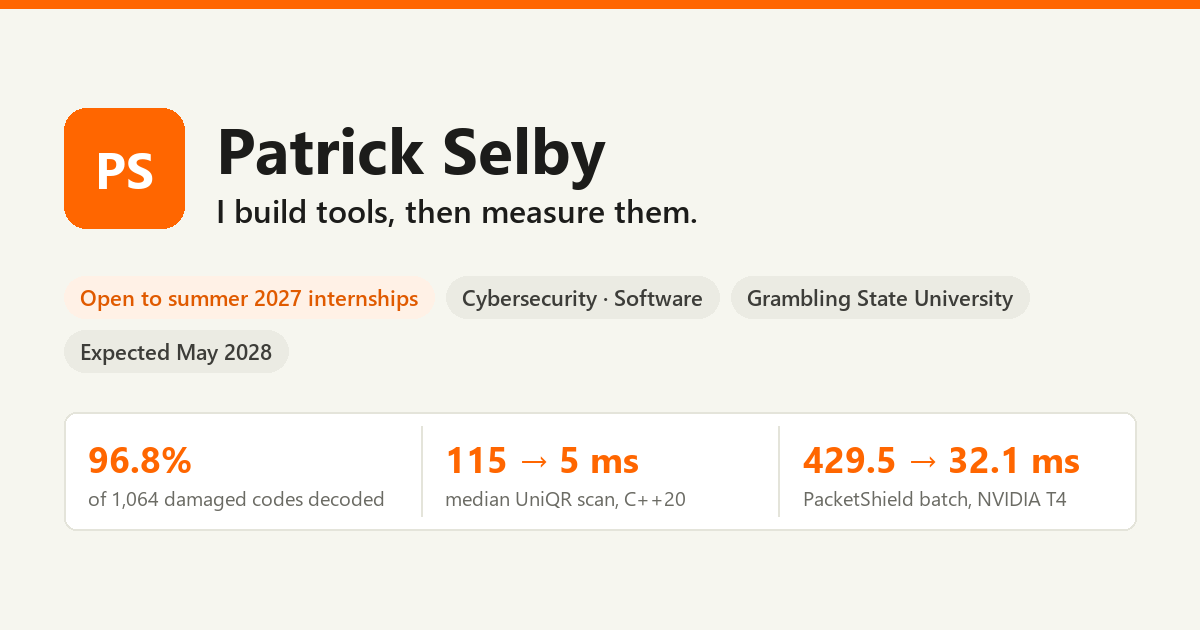
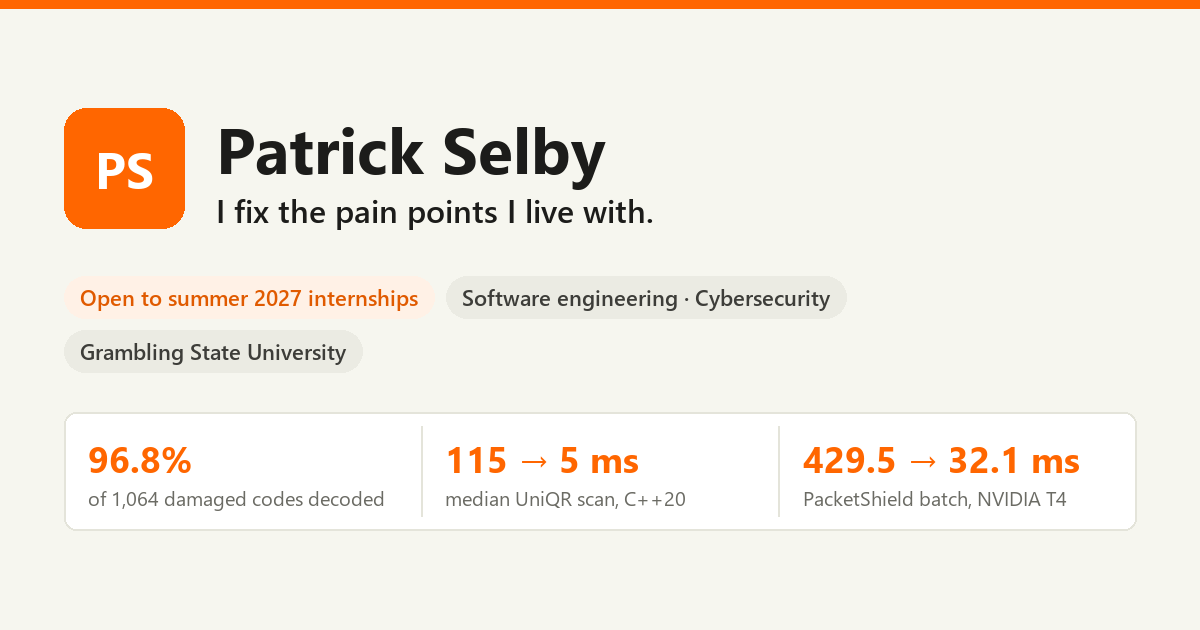
Drop class year and grad date; add a social dock that follows the scroll
- About now says cybersecurity student who loves software engineering and
  cybersecurity; the Graduation card becomes What I love. Link preview
  image drops Expected May 2028 and uses the new tagline.
- Floating links: a left rail on wide screens, a bottom pill on phones,
  shown after the hero and hidden at the closing buttons.

Changed region(s): [[0.185, 0.3016, 0.5858, 0.3619], [0.37, 0.4524, 0.8325, 0.5127], [0.0617, 0.5429, 0.3083, 0.573]]

diff --git a/src/components/socials.tsx b/src/components/socials.tsx
@@ -1,15 +1,15 @@
 "use client";
 
 import { useEffect, useState } from "react";
+import { AnimatePresence, motion } from "motion/react";
 import { FaGithub, FaInstagram, FaLinkedinIn, FaXTwitter } from "react-icons/fa6";
 import { MdOutlineEmail } from "react-icons/md";
 
 import { profile } from "@/lib/content";
 import { cn } from "@/lib/utils";
 
-/** Real brand logos for each place to find Patrick. Instagram appears once its handle is set. */
-export function SocialLinks({ size = "md", className }: { size?: "sm" | "md"; className?: string }) {
-  const links = [
+function socialLinks() {
+  return [
     { href: `mailto:${profile.email}`, label: "Email", Icon: MdOutlineEmail, tint: "hover:bg-[#0071e3]" },
     { href: profile.github, label: "GitHub", Icon: FaGithub, tint: "hover:bg-[#181717]" },
     { href: profile.linkedin, label: "LinkedIn", Icon: FaLinkedinIn, tint: "hover:bg-[#0a66c2]" },
@@ -18,6 +18,13 @@ export function SocialLinks({ size = "md", className }: { size?: "sm" | "md"; cl
       ? [{ href: profile.instagram, label: "Instagram", Icon: FaInstagram, tint: "hover:bg-[#e1306c]" }]
       : []),
   ];
+}
+
+const external = (href: string) => (href.startsWith("mailto:") ? {} : { target: "_blank", rel: "noopener noreferrer" });
+
+/** Real brand logos for each place to find Patrick. Instagram appears once its handle is set. */
+export function SocialLinks({ size = "md", className }: { size?: "sm" | "md"; className?: string }) {
+  const links = socialLinks();
 
   return (
     <div className={cn("flex flex-wrap items-center justify-center gap-3", className)}>
@@ -25,7 +32,7 @@ export function SocialLinks({ size = "md", className }: { size?: "sm" | "md"; cl
         <a
           key={label}
           href={href}
-          {...(href.startsWith("mailto:") ? {} : { target: "_blank", rel: "noopener noreferrer" })}
+          {...external(href)}
           aria-label={label}
           className={cn(
             "group inline-flex items-center gap-2 rounded-full border border-border bg-white font-medium text-foreground transition-all duration-200 hover:-translate-y-0.5 hover:border-transparent hover:text-white hover:shadow-lg",
@@ -65,5 +72,76 @@ export function Typewriter({ text, className, speed = 55 }: { text: string; clas
         className={cn("ml-1 inline-block h-[0.85em] w-[3px] translate-y-[0.08em] bg-primary align-baseline", shown >= text.length ? "animate-pulse" : "")}
       />
     </span>
+  );
+}
+
+/**
+ * Links that follow you down the page: a vertical rail on the left on wide
+ * screens, a pill at the bottom on phones. It appears once you scroll past
+ * the hero and steps aside at the closing section, where the big buttons are.
+ */
+export function FloatingSocials() {
+  const [show, setShow] = useState(false);
+
+  useEffect(() => {
+    let pastHero = false;
+    let atContact = false;
+    const update = () => setShow(pastHero && !atContact);
+
+    const onScroll = () => {
+      pastHero = window.scrollY > window.innerHeight * 0.6;
+      update();
+    };
+    onScroll();
+    window.addEventListener("scroll", onScroll, { passive: true });
+
+    const contact = document.getElementById("contact");
+    const io = new IntersectionObserver(([entry]) => {
+      atContact = entry.isIntersecting;
+      update();
+    });
+    if (contact) io.observe(contact);
+
+    return () => {
+      window.removeEventListener("scroll", onScroll);
+      io.disconnect();
+    };
+  }, []);
+
+  const links = socialLinks();
+  return (
+    <AnimatePresence>
+      {show && (
+        <motion.nav
+          aria-label="Find me online"
+          initial={{ opacity: 0, y: 20, scale: 0.95 }}
+          animate={{ opacity: 1, y: 0, scale: 1 }}
+          exit={{ opacity: 0, y: 20, scale: 0.95 }}
+          transition={{ type: "spring", stiffness: 260, damping: 24 }}
+          className={cn(
+            "fixed z-40 flex gap-1.5 rounded-full border border-black/5 bg-white/80 p-1.5 shadow-[0_12px_40px_-12px_rgba(0,0,0,0.3)] backdrop-blur-xl",
+            // Phones: a pill centered at the bottom. Wide screens: a rail on the left.
+            "bottom-4 left-1/2 -translate-x-1/2 flex-row",
+            "lg:top-1/2 lg:bottom-auto lg:left-5 lg:-translate-x-0 lg:-translate-y-1/2 lg:flex-col"
+          )}
+        >
+          {links.map(({ href, label, Icon, tint }) => (
+            <a
+              key={label}
+              href={href}
+              {...external(href)}
+              aria-label={label}
+              title={label}
+              className={cn(
+                "group grid size-10 place-items-center rounded-full text-foreground transition-all duration-200 hover:scale-110 hover:text-white",
+                tint
+              )}
+            >
+              <Icon className="size-[18px] transition-transform duration-300 group-hover:rotate-[-8deg]" />
+            </a>
+          ))}
+        </motion.nav>
+      )}
+    </AnimatePresence>
   );
 }

diff --git a/src/components/portfolio.tsx b/src/components/portfolio.tsx
@@ -21,7 +21,7 @@ import {
 } from "@/lib/content";
 import { cn } from "@/lib/utils";
 import { ExperienceChat } from "@/components/experience-chat";
-import { SocialLinks, Typewriter } from "@/components/socials";
+import { FloatingSocials, SocialLinks, Typewriter } from "@/components/socials";
 import { DriftCard, HorizontalScroll, Marquee, SmoothScroll, TiltCard, ZoomIn } from "@/components/scroll-fx";
 
 const LENS_KEYS: LensKey[] = ["general", "cyber", "swe"];
@@ -67,6 +67,7 @@ export function Portfolio() {
     <MotionConfig reducedMotion="user">
       <SmoothScroll>
       <Nav resume={lens.resume} />
+      <FloatingSocials />
 
       <main id="top" className="overflow-x-clip">
         {/* ---------------------------------------------------- Hero */}
@@ -276,8 +277,8 @@ export function Portfolio() {
               </p>
               <p className="mt-4 text-lg leading-relaxed text-muted-foreground">
                 Lately that means developer tools and small fixes for my own life as a student. I&apos;m a
-                cybersecurity sophomore at {profile.school}, minoring in Computer Information Systems, and I was
-                born and raised in Ghana.
+                cybersecurity student at {profile.school}, I love software engineering and cybersecurity, and I
+                was born and raised in Ghana.
               </p>
               <dl className="mt-8 grid gap-4 sm:grid-cols-2">
                 <div className="rounded-2xl bg-muted p-4">
@@ -285,8 +286,8 @@ export function Portfolio() {
                   <dd className="mt-1 font-medium">{profile.degree}</dd>
                 </div>
                 <div className="rounded-2xl bg-muted p-4">
-                  <dt className="text-sm text-muted-foreground">Graduation</dt>
-                  <dd className="mt-1 font-medium">{profile.grad}</dd>
+                  <dt className="text-sm text-muted-foreground">What I love</dt>
+                  <dd className="mt-1 font-medium">Software engineering and cybersecurity</dd>
                 </div>
               </dl>
             </Reveal>

diff --git a/src/components/experience-chat.tsx b/src/components/experience-chat.tsx
@@ -218,7 +218,7 @@ export function ExperienceChat({ roles, header }: { roles: Role[]; header: React
 
   return (
     <div ref={sectionRef} className="relative" style={{ height: `${items.length * VH_PER_MESSAGE + 100}vh` }}>
-      <div className="sticky top-14 mx-auto grid h-[calc(100dvh-3.5rem)] max-w-6xl gap-10 px-5 py-6 lg:grid-cols-[300px_1fr]">
+      <div className="sticky top-14 mx-auto grid h-[calc(100dvh-3.5rem)] max-w-6xl gap-10 px-5 pt-6 pb-20 lg:pb-6 lg:grid-cols-[300px_1fr]">
         <div className="hidden self-center lg:block">
           {header}
           {/* How far through the conversation you are. */}

diff --git a/src/lib/content.ts b/src/lib/content.ts
@@ -14,7 +14,6 @@ export const profile = {
   school: "Grambling State University",
   degree: "B.S. Cybersecurity, Minor in Computer Information Systems",
   gpa: "3.88 / 4.00",
-  grad: "Expected May 2028",
 };
 
 export const lenses: Record<
